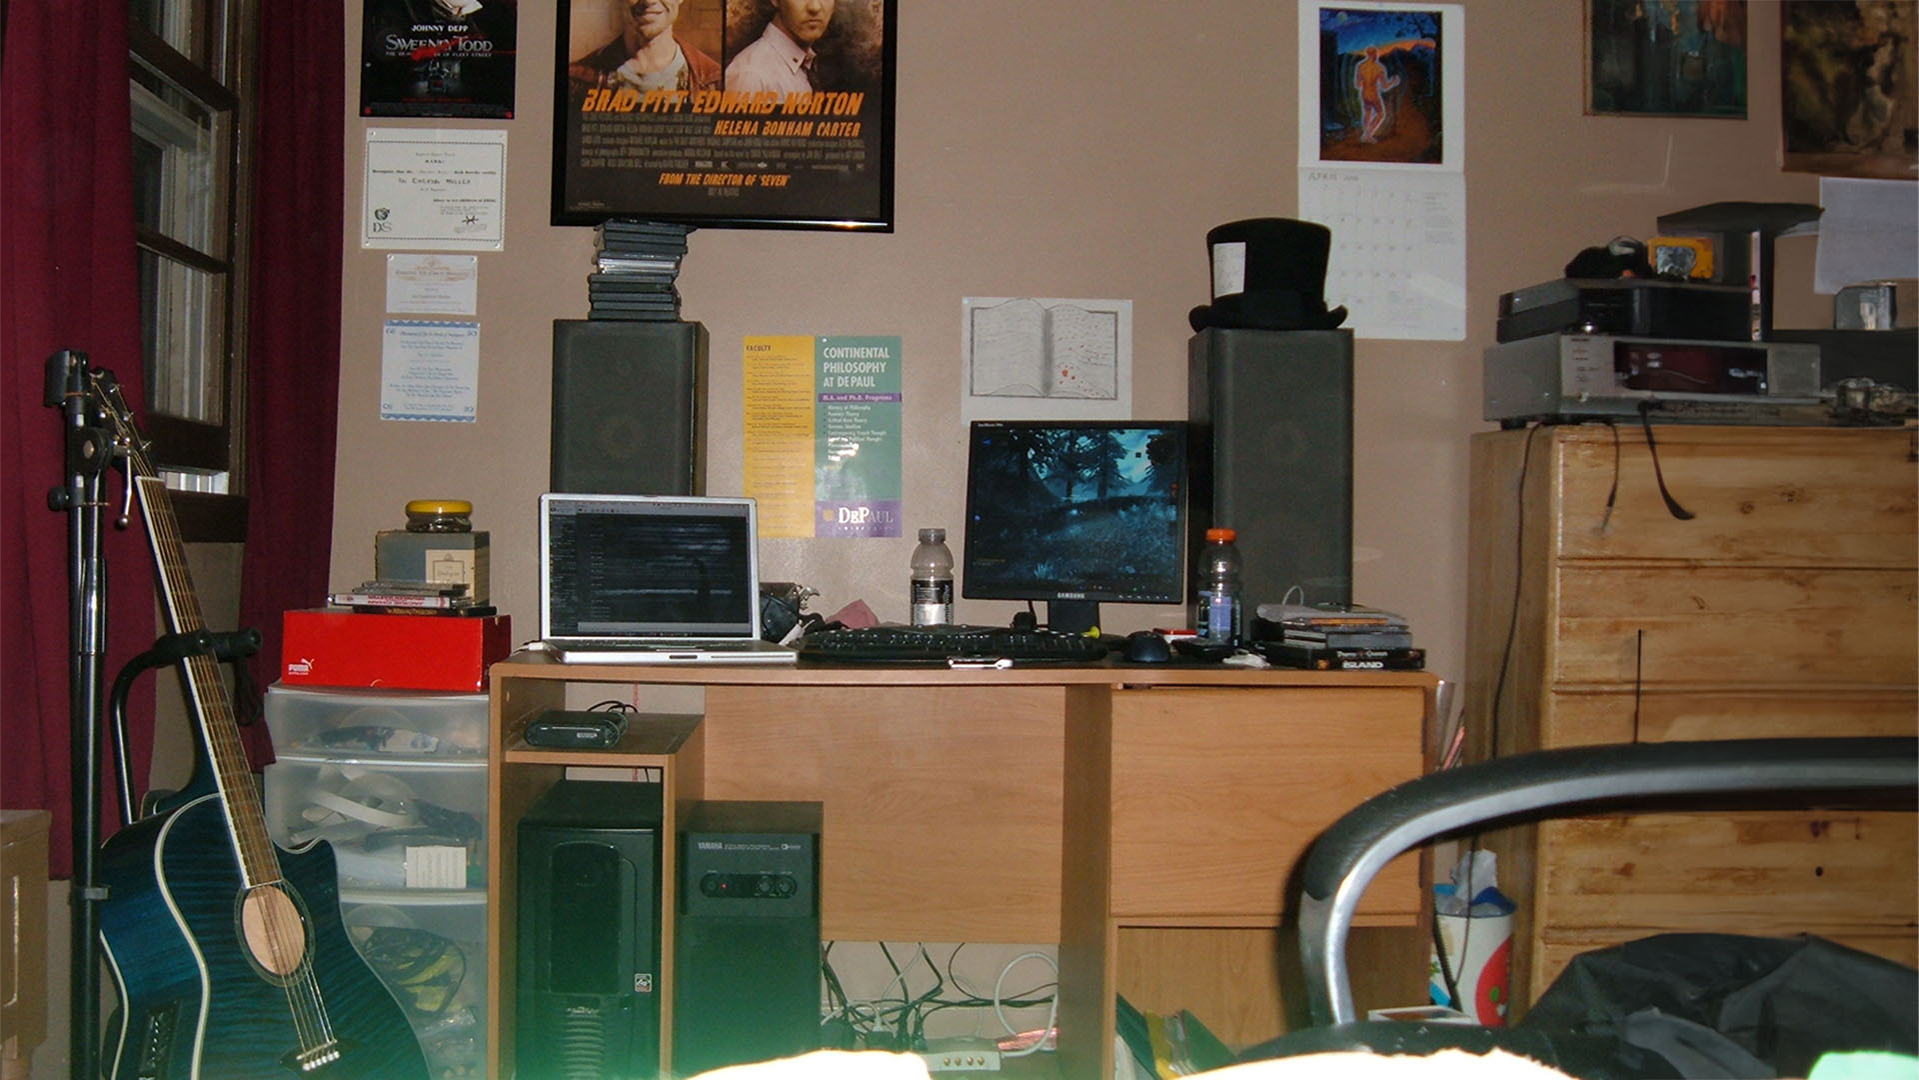
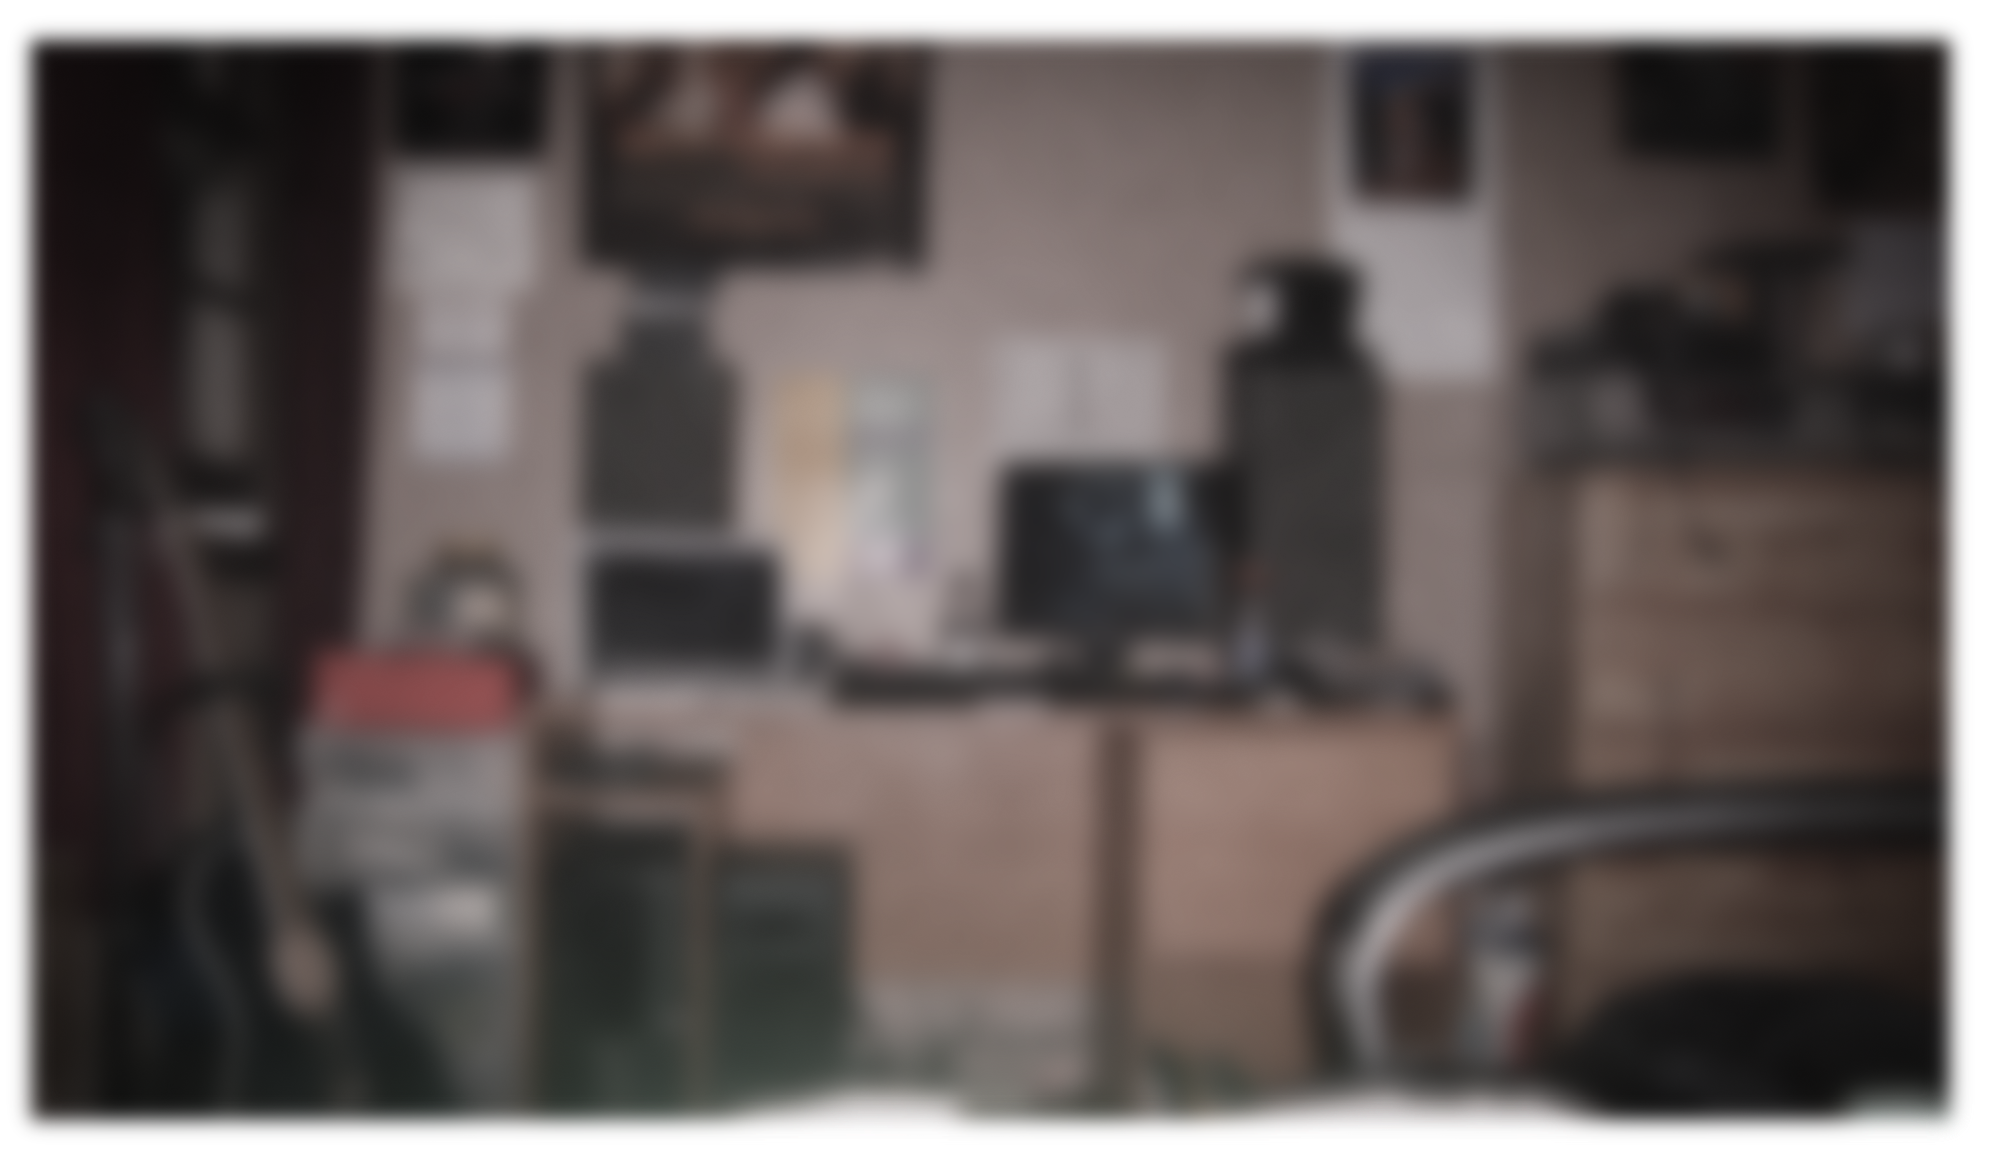
Add files via upload

diff --git a/style/style.css b/style/style.css
@@ -251,7 +251,7 @@ html, body {
     left: 392px;
 }
 #frame-b:hover {
-    animation: bounce 2s ease;
+    animation: flip 2s ease;
 }
 
 .stereo {
@@ -281,7 +281,19 @@ html, body {
     transform: rotate(-1deg);
 }
 
-/*living 03 objects*/
+.bedroom-back {
+    position: absolute;
+    display: flex;
+}
+#bedroom-back {
+    position: absolute;
+    top: -147px;
+    left: 140px;
+    width: 216px;
+    transform: rotate(2deg);
+}
+
+/*living 02 objects*/
 .plant {
     position: absolute;
     display: flex;
@@ -334,6 +346,20 @@ html, body {
     animation: shake 2s forwards;
 }
 
+
+.living01-back {
+    position: absolute;
+    display: flex;
+}
+#living01-back {
+    position: absolute;
+    top: -96px;
+    left: -387px;
+    width: 200px;
+    height: 167px;
+    transform: rotate(0deg);
+    opacity: 0.5;
+}
 
 
 

diff --git a/living03.html b/living03.html
@@ -1,0 +1,25 @@
+<!doctype html>
+<html lang="en">
+  <head>
+    <meta charset="UTF-8">
+
+    <title>Living Room 3</title>
+    <link rel="stylesheet" href="style/style.css">
+   
+</head>
+
+<!--start of page-->
+  <body>
+
+    <!--background-->
+    <img class="background" src="living03/living03.png" id="adjustable-image" >
+
+    <!--objects-->
+
+
+    <!--javascript + jquery-->
+    <script src="https://code.jquery.com/jquery-3.7.1.min.js" integrity="sha256-/JqT3SQfawRcv/BIHPThkBvs0OEvtFFmqPF/lYI/Cxo=" crossorigin="anonymous"></script>
+    <script src="js/main.js"></script>
+
+  </body>
+</html>

diff --git a/living02.html b/living02.html
@@ -32,6 +32,12 @@
       <img id="phone" src="living02/objects/phone.png" alt="phone">
     </div>
 
+    <div class="living01-back">
+      <img id="living01-back" src="living01/living01-back.png" alt="living01-back">
+      <a href="living01.html" style="width:100%"><img id="living01-back" src="living01/living01-back.png" alt="living01-back">
+      </a>
+    </div>
+
     <!--javascript + jquery-->
     <script src="https://code.jquery.com/jquery-3.7.1.min.js" integrity="sha256-/JqT3SQfawRcv/BIHPThkBvs0OEvtFFmqPF/lYI/Cxo=" crossorigin="anonymous"></script>
     <script src="js/main.js"></script>

diff --git a/living01.html b/living01.html
@@ -41,6 +41,12 @@
       </a>
     </div>
 
+    <div class="bedroom-back">
+      <img id="bedroom-back" src="living01/bedroom.png" alt="bedroom-back">
+      <a href="bedroom.html" style="width:100%"><img id="bedroom-back" src="living01/bedroom.png" alt="bedroom-back">
+      </a>
+    </div>
+
 
     <!--javascript + jquery-->
     <script src="https://code.jquery.com/jquery-3.7.1.min.js" integrity="sha256-/JqT3SQfawRcv/BIHPThkBvs0OEvtFFmqPF/lYI/Cxo=" crossorigin="anonymous"></script>
